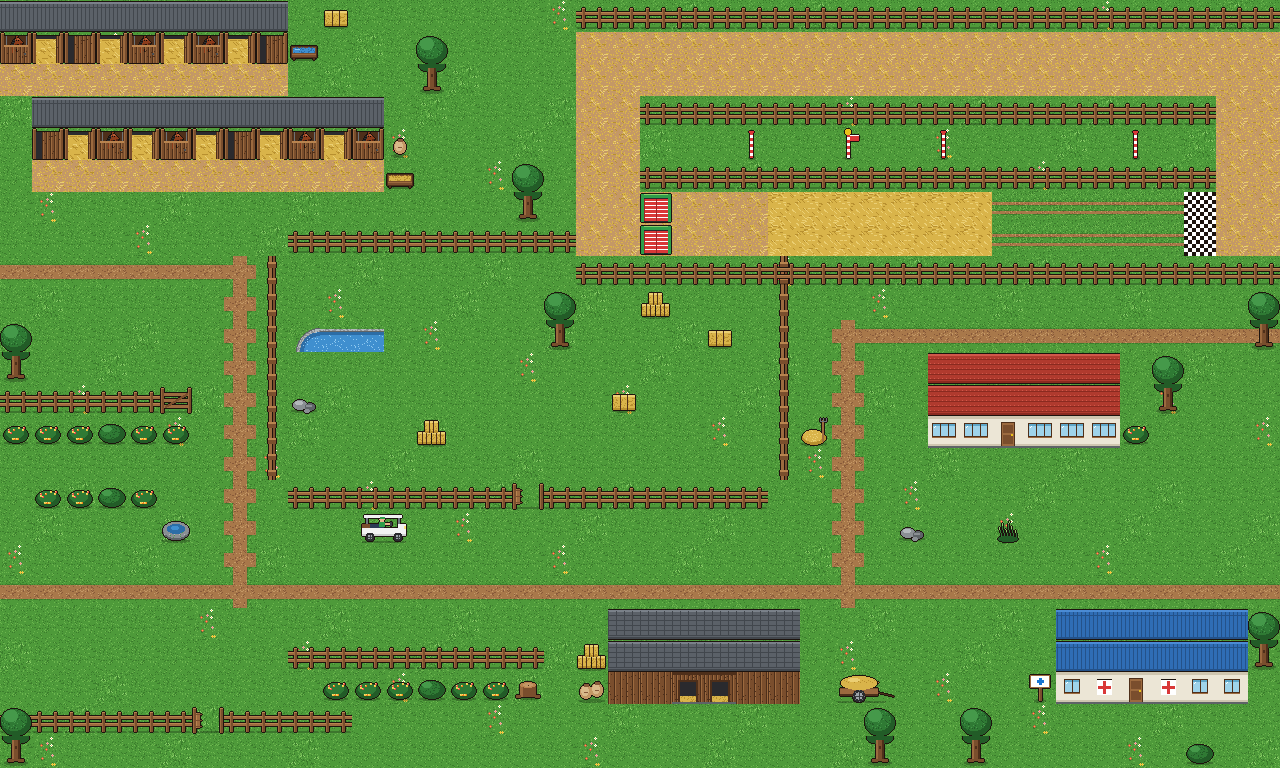
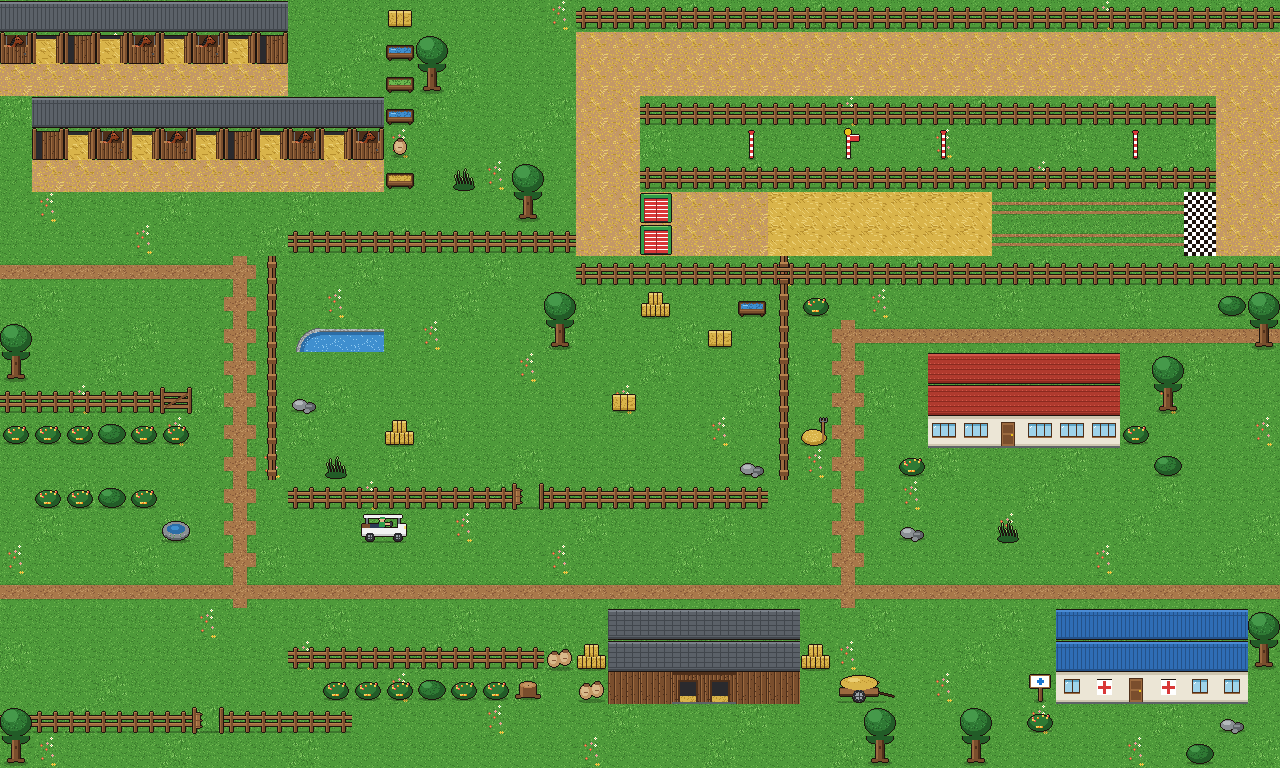
fix: improve stable horse readability at map scale

diff --git a/src/render/stableHorses.ts b/src/render/stableHorses.ts
@@ -5,10 +5,10 @@ import { tinted, type Sprites } from "./sprites.ts";
 
 /** Kích thước và tọa độ cửa sổ mở chấn song trong ô chuồng 32×32 của S07 (0,1). */
 export const STALL_OPENING = {
-  offsetX: 9,
-  offsetY: 4,
-  w: 17,
-  h: 9,
+  offsetX: 7,
+  offsetY: 3,
+  w: 19,
+  h: 12,
 } as const;
 
 /** Màu nền tối bên trong ô chuồng (pixel chuẩn S07 tại x=5, y=36). */
@@ -66,7 +66,7 @@ export function drawStableHorses(
       32,
       32,
       anchor.x - 8,
-      anchor.y + 2,
+      anchor.y + 1,
       32,
       32,
     );
@@ -74,14 +74,14 @@ export function drawStableHorses(
 
     // 3. Khôi phục các thanh viền, cột trụ và nửa cánh cửa dưới của S07 đảm bảo sắc nét
     if (sprites.stall?.canvas) {
-      // Thanh xà ngang trên (y: 0..3)
-      ctx.drawImage(sprites.stall.canvas, 0, 32, 32, 4, anchor.x, anchor.y, 32, 4);
-      // Trụ và chấn song mép trái (x: 0..8, y: 4..12)
-      ctx.drawImage(sprites.stall.canvas, 0, 36, 9, 9, anchor.x, anchor.y + 4, 9, 9);
-      // Trụ và chấn song mép phải (x: 26..31, y: 4..12)
-      ctx.drawImage(sprites.stall.canvas, 26, 36, 6, 9, anchor.x + 26, anchor.y + 4, 6, 9);
-      // Nửa cánh cửa dưới (y: 13..31)
-      ctx.drawImage(sprites.stall.canvas, 0, 45, 32, 19, anchor.x, anchor.y + 13, 32, 19);
+      // Thanh xà ngang trên (y: 0..2)
+      ctx.drawImage(sprites.stall.canvas, 0, 32, 32, 3, anchor.x, anchor.y, 32, 3);
+      // Trụ mép trái (x: 0..6, y: 3..14)
+      ctx.drawImage(sprites.stall.canvas, 0, 35, 7, 12, anchor.x, anchor.y + 3, 7, 12);
+      // Trụ mép phải (x: 26..31, y: 3..14)
+      ctx.drawImage(sprites.stall.canvas, 26, 35, 6, 12, anchor.x + 26, anchor.y + 3, 6, 12);
+      // Nửa cánh cửa dưới (y: 15..31)
+      ctx.drawImage(sprites.stall.canvas, 0, 47, 32, 17, anchor.x, anchor.y + 15, 32, 17);
     }
   }
 }

diff --git a/src/render/stableHorses.test.ts b/src/render/stableHorses.test.ts
@@ -1,6 +1,6 @@
 import assert from "node:assert/strict";
 import { test } from "node:test";
-import { stableHorseFrame } from "./stableHorses.ts";
+import { STALL_OPENING, stableHorseFrame } from "./stableHorses.ts";
 import { VISIBLE_STABLE_STALLS } from "../hub/farmPopulation.ts";
 
 test("reduced motion fixes every stable horse on idle frame zero", () => {
@@ -14,4 +14,14 @@ test("stable horse animation uses only approved idle frames", () => {
 test("all visible stall openings are unique 32px cells inside the stable object", () => {
   assert.equal(new Set(VISIBLE_STABLE_STALLS.map(({ x, y }) => `${x},${y}`)).size, 7);
   assert.ok(VISIBLE_STABLE_STALLS.every(({ x, y }) => x >= 0 && x < 384 && y >= 32 && y < 160));
+});
+
+test("stable viewport reveals enough approved horse pixels to read at map scale", () => {
+  assert.deepEqual(STALL_OPENING, {
+    offsetX: 7,
+    offsetY: 3,
+    w: 19,
+    h: 12,
+  });
+  assert.ok(STALL_OPENING.w * STALL_OPENING.h >= 228);
 });
